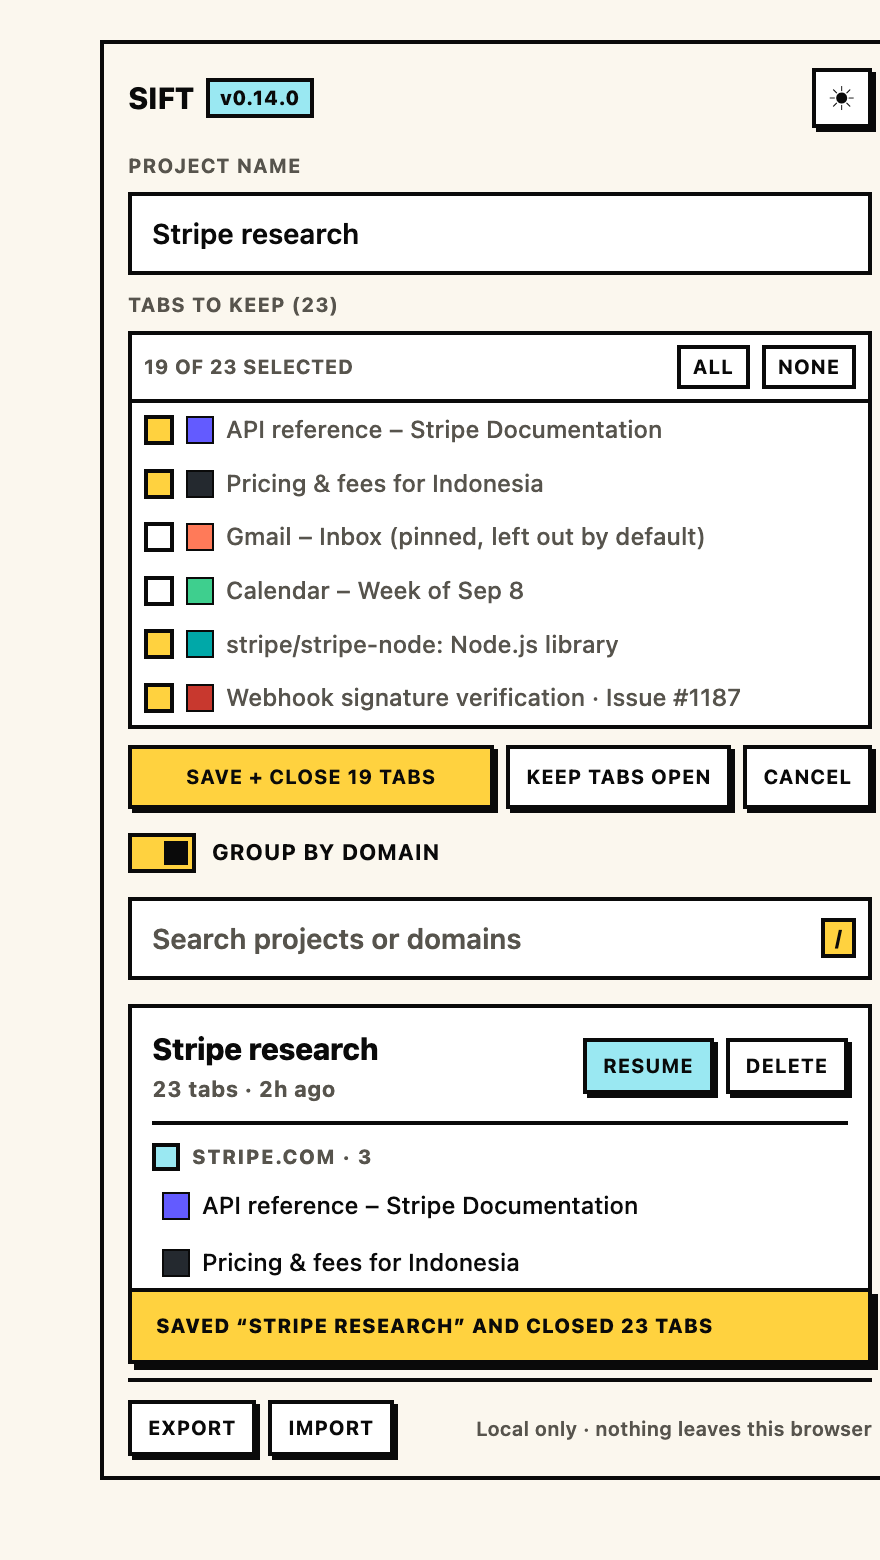
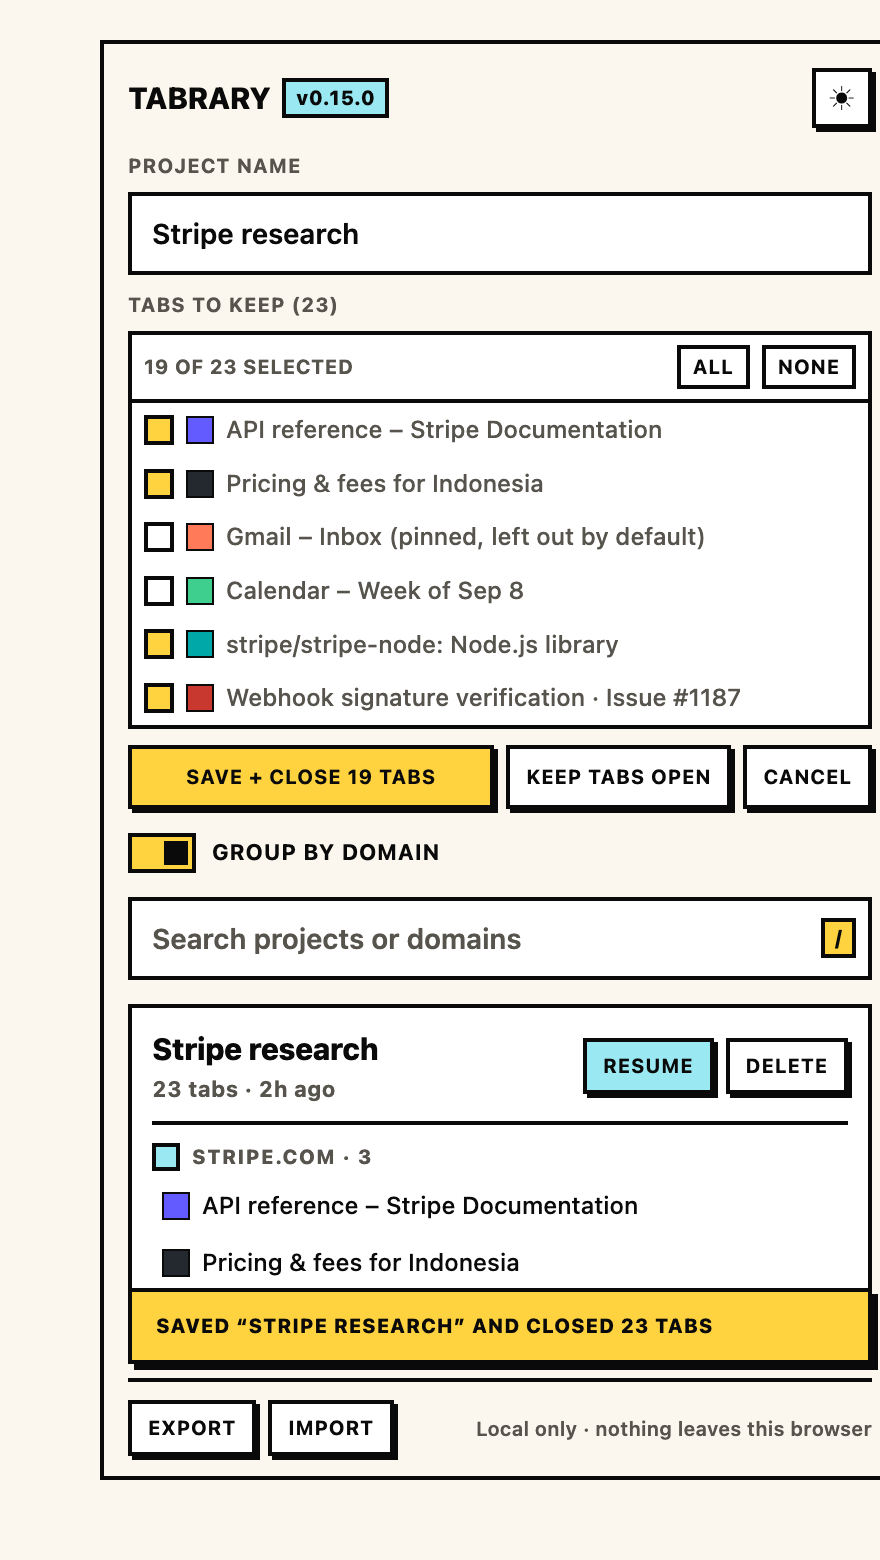
Rename to Tabrary
The old name collided with a well-funded company (sift.com, fraud prevention)
plus npm, several GitHub projects and every obvious domain. Tabrary is clear on
the checks that matter: tabrary.com is unregistered, npm is free, and no project
uses it. See notes/ for the availability run.

What changed: the panel title, manifest name, README, release/tooling naming, and
the zip prefix. What deliberately did not: internal identifiers (isSiftable,
siftableTabs — 'sift' as a verb) and the storage keys, since renaming those would
orphan projects already saved in a profile.

Also drops the brand-as-verb: the button says 'Save this window', not 'Sift this
window', because 'Tabrary' is not a verb and 'save' is what the product does.

Changed region(s): [[0.1534, 0.0308, 0.4602, 0.0923]]

diff --git a/extension/sidepanel.js b/extension/sidepanel.js
@@ -35,7 +35,7 @@ async function init() {
   // stamped so you can always tell which build the panel is running
   const version = chrome.runtime.getManifest().version;
   $('version').textContent = `v${version}`;
-  console.log(`Sift v${version} — ${location.href}`);
+  console.log(`Tabrary v${version} — ${location.href}`);
   applyTheme();
   $('group-toggle').checked = settings.groupByDomain;
   $('group-toggle').addEventListener('change', onGroupToggle);
@@ -126,10 +126,10 @@ async function refreshSaveButton() {
 
   const btn = $('save-btn');
   btn.textContent = !count
-    ? 'Nothing to sift in this window'
+    ? 'Nothing to save in this window'
     : selected.length
-      ? `Sift ${count} selected tabs`
-      : `Sift this window (${count} tabs)`;
+      ? `Save ${count} selected tabs`
+      : `Save this window (${count} tabs)`;
   btn.disabled = count === 0;
 }
 
@@ -301,7 +301,7 @@ function renderProjects() {
     $('empty').hidden = false;
     $('empty').textContent = projects.length
       ? 'No projects match that search.'
-      : 'No projects yet. Sift your first window above.';
+      : 'No projects yet. Save your first window above.';
     return;
   }
 
@@ -427,7 +427,7 @@ async function onProjectClick(event) {
 
     const placed = await chrome.tabs.query({ windowId: win.id });
     console.info(
-      `Sift resume: newWindow=${win.id} urls=${urls.length} tabsInWindow=${placed.length} groups=${grouped.made}` +
+      `Tabrary resume: newWindow=${win.id} urls=${urls.length} tabsInWindow=${placed.length} groups=${grouped.made}` +
         (grouped.errors.length ? ` errors=${grouped.errors.join('; ')}` : ''),
     );
 
@@ -607,7 +607,7 @@ function exportAll() {
   const blob = new Blob([JSON.stringify(projects, null, 2)], { type: 'application/json' });
   const link = document.createElement('a');
   link.href = URL.createObjectURL(blob);
-  link.download = `sift-projects-${new Date().toISOString().slice(0, 10)}.json`;
+  link.download = `tabrary-projects-${new Date().toISOString().slice(0, 10)}.json`;
   link.click();
   URL.revokeObjectURL(link.href);
 }
@@ -627,7 +627,7 @@ async function importAll(event) {
     render();
     status(`Imported ${added.length} project${added.length === 1 ? '' : 's'}.`);
   } catch {
-    status('Import failed — that is not a Sift export file.');
+    status('Import failed — that is not a Tabrary export file.');
   }
 }
 

diff --git a/tools/preview.html b/tools/preview.html
@@ -6,7 +6,7 @@
 <html lang="en">
   <head>
     <meta charset="utf-8" />
-    <title>Sift preview</title>
+    <title>Tabrary preview</title>
     <link rel="stylesheet" href="../extension/sidepanel.css" />
     <style>
 
@@ -27,12 +27,12 @@
   </head>
   <body>
     <header class="head">
-      <h1>Sift <span class="ver">v0.14.0</span></h1>
+      <h1>Tabrary <span class="ver">v0.15.0</span></h1>
       <button class="theme" type="button">☾</button>
     </header>
 
     <section class="actions">
-      <button id="cta" class="primary wide">Sift this window (23 tabs)</button>
+      <button id="cta" class="primary wide">Save this window (23 tabs)</button>
       <div id="save-form" class="form" hidden>
         <label class="field">
           <span>Project name</span>

diff --git a/extension/lib/store.js b/extension/lib/store.js
@@ -1,6 +1,8 @@
 // Storage + pure helpers. No dependencies, no network.
 // ponytail: chrome.storage.local instead of IndexedDB — same persistence, ~20 lines
 // instead of ~150. Move to IndexedDB only if you start storing page snapshots.
+// storage keys kept their original prefix on purpose: they are internal, invisible,
+// and renaming them would orphan every project already saved in a profile.
 const KEY = 'sift.projects';
 
 export const newId = () => crypto.randomUUID();

diff --git a/extension/sidepanel.html b/extension/sidepanel.html
@@ -2,12 +2,12 @@
 <html lang="en">
   <head>
     <meta charset="utf-8" />
-    <title>Sift</title>
+    <title>Tabrary</title>
     <link rel="stylesheet" href="sidepanel.css" />
   </head>
   <body>
     <header class="head">
-      <h1>Sift <span id="version" class="ver"></span></h1>
+      <h1>Tabrary <span id="version" class="ver"></span></h1>
       <button id="theme" class="theme" type="button">☀</button>
     </header>
 

diff --git a/tools/make-icons.py b/tools/make-icons.py
@@ -1,5 +1,5 @@
 #!/usr/bin/env python3
-"""Generate Sift toolbar icons with stdlib only (no Pillow, no design tool).
+"""Generate Tabrary toolbar icons with stdlib only (no Pillow, no design tool).
 Run: python3 tools/make-icons.py
 """
 import struct

diff --git a/README.md b/README.md
@@ -1,4 +1,4 @@
-# Sift
+# Tabrary
 
 **Close your tabs. Keep your research.**
 
@@ -11,7 +11,7 @@ Research → Save as Project → Close tabs → Resume in 1 click
 ```
 
 Local-first: no backend, no account, no AI, no network calls. The whole thing is
-~600 lines of plain JavaScript, loads unpacked with zero build step.
+~650 lines of plain JavaScript, loads unpacked with zero build step.
 
 Works on any Chromium browser 114+: **Chrome, Brave, Edge, Opera, Vivaldi** (built and
 tested on Chrome and Brave). Firefox and Safari are out of scope — the side panel and
@@ -19,7 +19,7 @@ tab-group APIs are Chromium-only.
 
 ## Install (no clone needed)
 
-**[Download the latest release →](https://github.com/pramudya3/sift-web-extension/releases/latest)**
+**[Download the latest release →](https://github.com/pramudya3/tabrary/releases/latest)**
 
 1. Unzip the download
 2. `chrome://extensions` — or `brave://extensions`, `edge://extensions`
@@ -32,7 +32,7 @@ survive.
 
 | Project list | Save a window — pick what to keep | Dark mode |
 |---|---|---|
-| ![Sift side panel listing saved research projects](docs/preview-light.png) | ![Sift save form: project name, tab picker with checkboxes, save and close](docs/preview-light-save.png) | ![Sift side panel in dark mode](docs/preview-dark.png) |
+| ![Tabrary side panel listing saved research projects](docs/preview-light.png) | ![Tabrary save form: project name, tab picker with checkboxes, save and close](docs/preview-light-save.png) | ![Tabrary side panel in dark mode](docs/preview-dark.png) |
 
 Rendered from the real `extension/sidepanel.css` by `tools/shot.sh` — the same markup
 the panel builds, so these cannot drift from the shipped UI without a check failing.
@@ -44,13 +44,13 @@ the panel builds, so these cannot drift from the shipped UI without a check fail
 | Feature | Notes |
 |---|---|
 | Save window as project | rule-based name suggestion (`Stripe research`), editable |
-| Pick which tabs to save | opening *Sift this window* shows the tab list with checkboxes — All / None, a live count, pinned tabs unchecked by default. ⌘/Ctrl-click tabs first and that selection is the starting point |
+| Pick which tabs to save | opening *Save this window* shows the tab list with checkboxes — All / None, a live count, pinned tabs unchecked by default. ⌘/Ctrl-click tabs first and that selection is the starting point |
 | Save + close tabs | closes only the tabs that were saved and are still open |
 | List / search / resume / delete | `Resume` opens the project in a new window, in saved order |
 | Click a saved tab | jumps to that tab if it is already open (same window first), otherwise opens it — no duplicates |
 | Group by domain | one switch: groups the current window now, and every resume after |
 | Groups survive a save | resume rebuilds the groups the project was *saved* with (title + colour), even groups that mix domains; tabs with no group fall back to their domain |
-| Pinned tabs are left alone | Chrome refuses to mix pinned and unpinned tabs in one group, so Sift never touches them |
+| Pinned tabs are left alone | Chrome refuses to mix pinned and unpinned tabs in one group, so Tabrary never touches them |
 | Export / import JSON | free on purpose — backup is trust, not an upsell |
 | Theme toggle | header button, light by default, saved locally |
 
@@ -72,7 +72,7 @@ tools/
   contrast.py         design checks: WCAG AA, theme completeness, DOM/CSS drift
   shot.sh             headless screenshots of the UI
   preview.html        design harness — real CSS, mock content
-  pack.sh             builds dist/sift-extension-v<version>.zip
+  pack.sh             builds dist/tabrary-v<version>.zip
   release.sh          bump + check + tag + publish the zip as a GitHub release
   version.mjs         bumps the version everywhere it appears
   bench.mjs           hot-path timings
@@ -85,11 +85,11 @@ which is git-ignored — this repo is the code.
 
 1. `chrome://extensions` → enable **Developer mode**
 2. **Load unpacked** → select the `extension/` folder
-3. Click the Sift icon → the side panel opens
+3. Click the Tabrary icon → the side panel opens
 
 After editing code: click **⟳** on the extension card, then **close and reopen the
 side panel** — reloading the extension does not re-render an open panel.
-The panel header stamps the running version (`SIFT v0.9.0`), so you can always tell
+The panel header stamps the running version (`TABRARY v<version>`), so you can always tell
 which build is live.
 
 ## Develop
@@ -99,7 +99,7 @@ npm test                    # rule logic: naming, grouping, picker defaults
 npm run check               # WCAG AA, theme completeness, class/listener coverage, scales
 npm run bench               # hot-path timings on synthetic libraries
 npm run shots               # → docs/preview-*.png (the screenshots above)
-npm run pack                # → dist/sift-extension-v<version>.zip
+npm run pack                # → dist/tabrary-v<version>.zip
 npm run release -- minor    # bump, check, screenshot, pack, tag, push, publish
 ```
 
